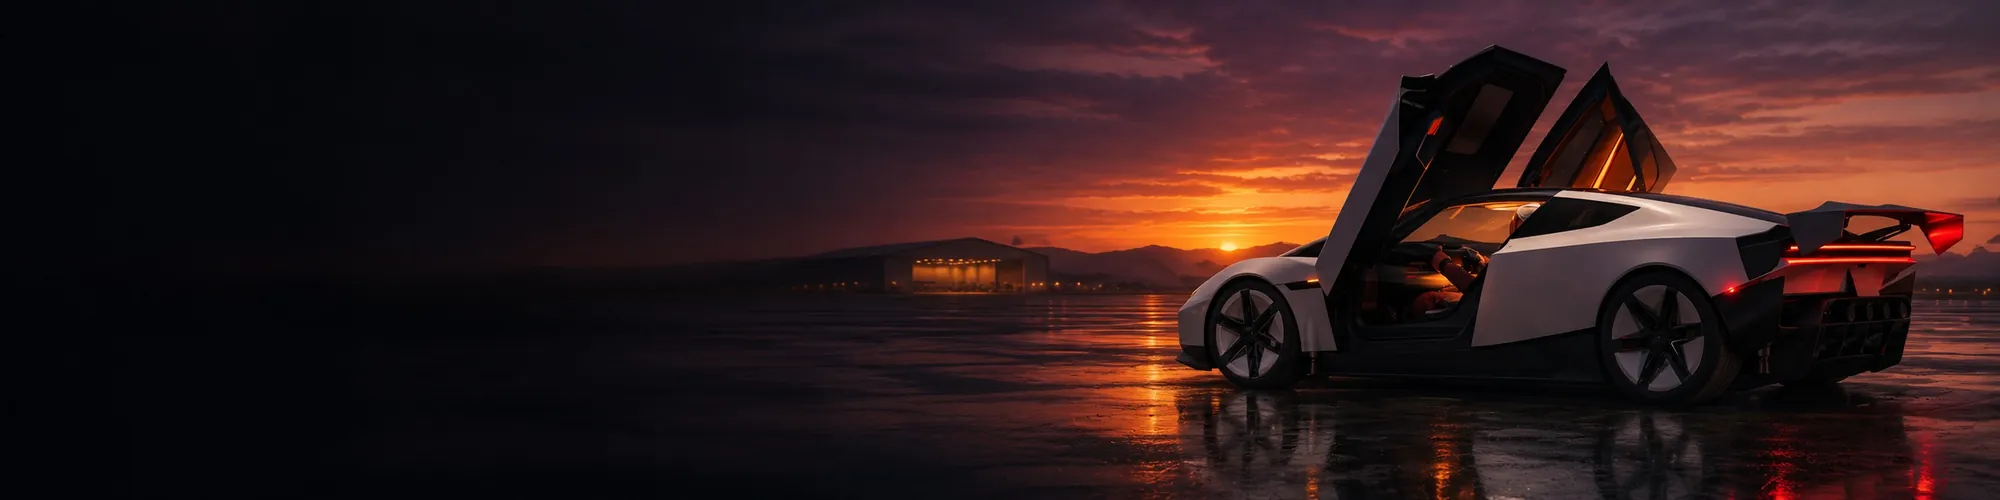
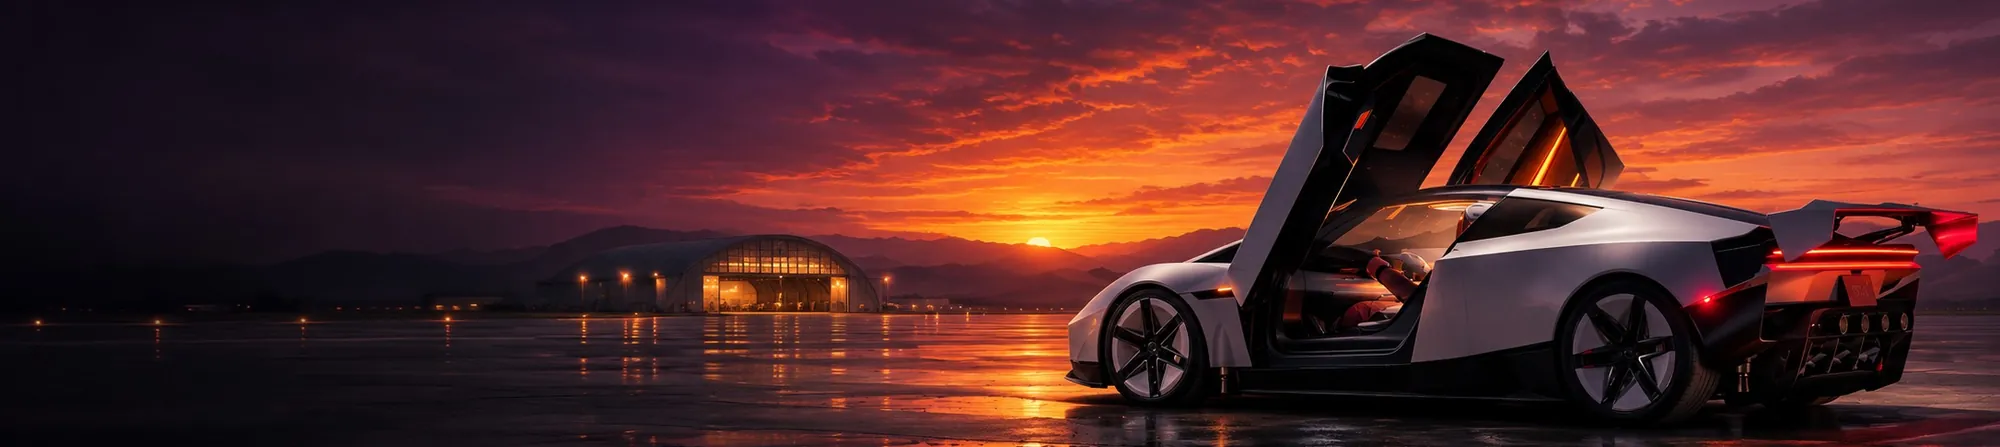
S

diff --git a/assets/fp-home.css b/assets/fp-home.css
@@ -105,13 +105,14 @@ body.home img{display:block;max-width:100%}
    its top fading into the banner, so the cars are never trimmed or pushed under the text. The VS badge and its line
    sit in the gap between the cars: --s = the gap's x in the image (0–1), --r = image ratio. */
 .cmp-media{position:absolute;inset:0;container-type:size;--iw:max(100cqw, var(--r,2.4) * 100cqh);--ih:max(100cqh, 100cqw / var(--r,2.4))}
-.cmp-media img{position:absolute;right:0;bottom:0;width:100%;height:100%;object-fit:cover;object-position:100% 100%}
+.cmp-media img{position:absolute;right:0;bottom:0;width:100%;height:100%;object-fit:cover;object-position:100% 50%}
 .cmp-media::before{content:"";position:absolute;inset:0;z-index:1;background:linear-gradient(90deg,var(--petrol) 0,rgba(17,37,46,.9) 16%,rgba(17,37,46,.5) 30%,rgba(17,37,46,0) 42%)}
-.cmp-line{position:absolute;z-index:1;left:calc(100cqw - (1 - var(--s,.5)) * var(--iw) - 1px);top:calc(100cqh - var(--ih) * .78);height:calc(var(--ih) * .56);width:2px;background:linear-gradient(180deg,transparent,var(--ember-strong) 30%,var(--ember-strong) 70%,transparent)}
-.cmp-vs{position:absolute;z-index:2;left:calc(100cqw - (1 - var(--s,.5)) * var(--iw));top:calc(100cqh - var(--ih) * .5);transform:translate(-50%,-50%);width:46px;height:46px;display:flex;align-items:center;justify-content:center;border-radius:50%;background:var(--petrol);border:2px solid var(--ember-strong);font:700 italic 16px/1 var(--f-head);color:var(--ivory)}
+.cmp-line{position:absolute;z-index:1;left:calc(100cqw - (1 - var(--s,.5)) * var(--iw) - 1px);top:calc(50cqh - var(--ih) * .28);height:calc(var(--ih) * .56);width:2px;background:linear-gradient(180deg,transparent,var(--ember-strong) 30%,var(--ember-strong) 70%,transparent)}
+.cmp-vs{position:absolute;z-index:2;left:calc(100cqw - (1 - var(--s,.5)) * var(--iw));top:50cqh;transform:translate(-50%,-50%);width:46px;height:46px;display:flex;align-items:center;justify-content:center;border-radius:50%;background:var(--petrol);border:2px solid var(--ember-strong);font:700 italic 16px/1 var(--f-head);color:var(--ivory)}
 @container (max-aspect-ratio: 2.4/1){
   .cmp-media img{height:auto;-webkit-mask-image:linear-gradient(180deg,transparent 0,#000 16%);mask-image:linear-gradient(180deg,transparent 0,#000 16%)}
-  .cmp-line,.cmp-vs{--iw:100cqw;--ih:calc(100cqw / var(--r,2.4))}
+  .cmp-line{--iw:100cqw;--ih:calc(100cqw / var(--r,2.4));top:calc(100cqh - var(--ih) * .78)}
+  .cmp-vs{--iw:100cqw;--ih:calc(100cqw / var(--r,2.4));top:calc(100cqh - var(--ih) * .5)}
 }
 .cmp-text{position:relative;z-index:2;display:flex;flex-direction:column;align-items:flex-start;justify-content:center;gap:10px;height:100%;max-width:36%;padding:20px 0 26px 30px}
 .cmp-text .fp-label{display:inline-block;padding:4px 7px;background:var(--ember-strong);color:#fff;border-radius:2px}
@@ -122,6 +123,9 @@ body.home img{display:block;max-width:100%}
 .cmp-credit{position:absolute;z-index:2;right:10px;bottom:8px;margin:0;padding:3px 6px;border-radius:2px;background:rgba(17,37,46,.62);font:400 10px/1 var(--f-mono);color:rgba(242,239,232,.85)}
 .ln .fp-head{margin-bottom:0}
 .ln-list{list-style:none;margin:0;padding:0}
+/* Desktop: three stories beside the comparison banner keep both columns ~300px (four made the banner ~400px tall).
+   The fourth shows again when the news list sits under the banner (≤1199px, two columns). */
+@media (min-width:1200px){.ln-list > li:nth-child(n+4){display:none}}
 .ln-item{display:grid;grid-template-columns:148px 1fr;gap:14px;align-items:center;padding:9px 0;border-bottom:1px solid var(--rule);color:var(--ink);text-decoration:none}
 .ln-media{display:block;aspect-ratio:2/1;border-radius:4px;overflow:hidden;background:var(--petrol)}
 .ln-media img{width:100%;height:100%;object-fit:cover}
@@ -297,9 +301,12 @@ body.home main{padding-bottom:0}
 .nu-card--bleed .nu-media::after,.cc-banner--bleed .cc-media::after{content:"";position:absolute;inset:0;pointer-events:none;background:linear-gradient(90deg,var(--petrol) 0,rgba(17,37,46,.9) 16%,rgba(17,37,46,.5) 32%,rgba(17,37,46,0) 46%)}
 .nu-card--bleed .nu-text{grid-area:1 / 1;position:relative;z-index:1;max-width:41%;padding:18px 0 18px 22px}
 .nu-credit{position:absolute;z-index:1;right:10px;bottom:8px;padding:3px 6px;border-radius:2px;background:rgba(17,37,46,.62);font:400 10px/1 var(--f-mono);color:rgba(242,239,232,.85)}
-.cc-banner.cc-banner--bleed{height:auto;display:grid;grid-template:1fr / minmax(0,1fr);align-items:center}
-.cc-banner--bleed .cc-media{grid-area:1 / 1;position:relative;inset:auto;width:100%;aspect-ratio:var(--r,4);-webkit-mask-image:none;mask-image:none}
-.cc-banner--bleed .cc-text{grid-area:1 / 1;height:auto;max-width:44%}
+/* Car Culture keeps the slim 240px band: the 4:1 image is sized to the band's height and anchored right (never cropped
+   on desktop), its left edge fading into the petrol band behind the text. */
+.cc-banner.cc-banner--bleed{height:240px}
+.cc-banner--bleed .cc-media{left:auto;width:auto;max-width:100%;height:100%;aspect-ratio:var(--r,4);-webkit-mask-image:linear-gradient(90deg,transparent 0,#000 22%);mask-image:linear-gradient(90deg,transparent 0,#000 22%)}
+.cc-banner--bleed .cc-media img{object-position:100% 50%}
+.cc-banner--bleed .cc-text{max-width:min(46%,480px);gap:9px}
 .cc-banner--bleed .cc-credit{padding:3px 6px;border-radius:2px;background:rgba(17,37,46,.62)}
 .cc-latest{font:600 13px/1.35 var(--f-body);color:var(--on-dark-2);text-decoration:none}
 .cc-latest:hover{color:var(--ivory);text-decoration:underline;text-underline-offset:3px}
@@ -311,11 +318,20 @@ body.home main{padding-bottom:0}
   .nu-card--bleed .nu-status{font-size:12.5px}
 }
 @media (max-width:767px){
-  .nu-card.nu-card--bleed,.cc-banner.cc-banner--bleed{display:flex;flex-direction:column;align-items:stretch}
+  .nu-card.nu-card--bleed{display:flex;flex-direction:column;align-items:stretch}
   .nu-card--bleed .nu-media{aspect-ratio:16/9}
-  .cc-banner--bleed .cc-media{aspect-ratio:2/1}
   .nu-card--bleed .nu-media img,.cc-banner--bleed .cc-media img{object-position:100% 50%}
-  .nu-card--bleed .nu-media::after,.cc-banner--bleed .cc-media::after{background:linear-gradient(0deg,var(--petrol) 0,rgba(17,37,46,0) 24%)}
-  .nu-card--bleed .nu-text,.cc-banner--bleed .cc-text{max-width:none;padding:4px 16px 16px}
+  .nu-card--bleed .nu-media::after{background:linear-gradient(0deg,var(--petrol) 0,rgba(17,37,46,0) 24%)}
+  .nu-card--bleed .nu-text{max-width:none;padding:4px 16px 16px}
   .nu-credit{top:8px;bottom:auto}
+}
+@media (min-width:1024px) and (max-width:1279px){.cc-banner--bleed .cc-text{max-width:38%}}
+/* ≤1023: Car Culture stacks — image on top (2.4:1, right-anchored: the whole car stays in), text below */
+@media (max-width:1023px){
+  .cc-banner.cc-banner--bleed{height:auto}
+  .cc-banner--bleed .cc-media{position:relative;display:block;width:100%;max-width:none;height:auto;aspect-ratio:2.4/1;-webkit-mask-image:none;mask-image:none}
+  .cc-banner--bleed .cc-media img{object-position:92% 50%}
+  .cc-banner--bleed .cc-media::after{background:linear-gradient(0deg,var(--petrol) 0,rgba(17,37,46,0) 26%)}
+  .cc-banner--bleed .cc-text{max-width:none;padding:4px 18px 20px}
+  .cc-banner--bleed .cc-credit{top:8px;bottom:auto}
 }

diff --git a/index.html b/index.html
@@ -57,7 +57,7 @@
   <link rel="preload" href="/assets/fonts/inter-latin-400-normal.woff2" as="font" type="font/woff2" crossorigin>
   <link rel="preload" href="/assets/fonts/familjen-grotesk-latin-700-italic.woff2" as="font" type="font/woff2" crossorigin>
   <link rel="stylesheet" href="/assets/fp.css?v=20261126c">
-  <link rel="stylesheet" href="/assets/fp-home.css?v=20261126c">
+  <link rel="stylesheet" href="/assets/fp-home.css?v=20261126g">
   <!-- /FP:HEAD -->
 </head>
 <body class="home">
@@ -291,13 +291,12 @@
 
   <div class="fp-container fp-row fp-row--last">
 <!-- CULTURE:START -->
-      <section class="cc-banner cc-banner--bleed" aria-labelledby="cultureTitle" style="--r:4.000">
-        <span class="cc-media" aria-hidden="true"><img src="/images/home/banner-news-tesla-roadster-reveal-2026.webp" alt="" width="2000" height="500" style="object-position:100% 50%" loading="lazy" decoding="async"></span>
+      <section class="cc-banner cc-banner--bleed" aria-labelledby="cultureTitle" style="--r:4.474">
+        <span class="cc-media" aria-hidden="true"><img src="/images/home/banner-news-tesla-roadster-reveal-2026.webp" alt="" width="2000" height="447" style="object-position:100% 50%" loading="lazy" decoding="async"></span>
         <div class="cc-text">
           <h2 class="fp-italic" id="cultureTitle">Car Culture</h2>
           <p>Performance, design, innovation and the machines that define automotive history.</p>
           <a class="fp-btn" href="/car-culture.html">Explore Stories<svg viewBox="0 0 16 16" aria-hidden="true"><path d="M6 3l5 5-5 5" fill="none" stroke="currentColor" stroke-width="1.8" stroke-linecap="round" stroke-linejoin="round"/></svg></a>
-          <a class="cc-latest" href="/news-tesla-roadster-reveal-2026.html">Latest: Tesla Roadster Finally Takes Flight in Musk’s Demo — Production Is Still Planned for 2028</a>
         </div>
         <p class="cc-credit">AI illustration: FlamingPiston</p>
       </section>
@@ -323,6 +322,6 @@
   </footer>
   <button class="back-to-top" id="backToTop" type="button" aria-label="Back to top"><svg viewBox="0 0 24 24" fill="none" stroke="currentColor" stroke-width="2"><path d="M12 19V5M5 12l7-7 7 7"/></svg></button>
   <script src="/assets/fp.js?v=20261126c" defer></script>
-  <script src="/assets/fp-home.js?v=20261126c" defer></script>
+  <script src="/assets/fp-home.js?v=20261126g" defer></script>
 </body>
 </html>

diff --git a/scripts/build-lists.js b/scripts/build-lists.js
@@ -423,7 +423,7 @@ between('index.html', 'GUIDES', guides.map((a) => `        <a class="gd-card" hr
         </a>`).join('\n'));
 
 // Car Culture banner (section entry point, links to /car-culture.html). Full-bleed image from the newest culture
-// story that has a 'culture' banner, with a "Latest" link to it; until one exists, the older image in carCulture.image.
+// story that has a 'culture' banner; until one exists, the older image in carCulture.image.
 const cc = HOME.carCulture || {};
 if (cultureA) {
   const b = BANNERS[cultureA.url], c = crop(`banner#${cultureA.url}`);
@@ -433,7 +433,6 @@ if (cultureA) {
           <h2 class="fp-italic" id="cultureTitle">${esc(cc.title || 'Car Culture')}</h2>
           <p>${esc(cc.dek || '')}</p>
           <a class="fp-btn" href="${cc.url || '/car-culture.html'}">Explore Stories${ICON_ARROW}</a>
-          <a class="cc-latest" href="${href(cultureA)}">Latest: ${esc(b.headline || cultureA.title)}</a>
         </div>
         ${b.credit ? `<p class="cc-credit">${esc(b.credit)}</p>` : ''}
       </section>`);

diff --git a/scripts/apply-shell.js b/scripts/apply-shell.js
@@ -20,7 +20,7 @@ const path = require('path');
 
 const ROOT = path.resolve(__dirname, '..');
 const V = '20261126c';                       // fp.css / fp.js — bump after editing them
-const VH = '20261126c';                      // homepage-only assets (fp-home.css / fp-home.js)
+const VH = '20261126g';                      // homepage-only assets (fp-home.css / fp-home.js)
 const SKIP_DIRS = new Set(['site', 'scripts', 'images', 'js', 'assets', '.git', 'node_modules', 'design-preview']);
 const args = process.argv.slice(2);
 const DRY = args.includes('--dry-run');

diff --git a/scripts/make-home-images.py b/scripts/make-home-images.py
@@ -29,7 +29,7 @@ Homepage slot ratios (keep in step with assets/fp-home.css):
   card  1.78 (16:9)   New & Upcoming cards
   car   1.78 (16:9)   Featured Cars (2.4:1 until Nov 2026: too shallow for SUVs)
   feature            homepage banners ("banners" in homepage.json): used whole, checked against
-                     their kind (hero/compare 2.4:1, launch/upcoming 3:1, culture 4:1)
+                     their kind (hero/compare 2.4:1, launch/upcoming 3:1, culture ≈4.4:1 after a vertical 'box' crop)
   banner              Car Culture banner ("box" crop, cover)
 
 Usage (from the site root, needs Pillow:  pip install pillow):
@@ -44,7 +44,7 @@ ROOT = os.path.abspath(os.path.join(os.path.dirname(__file__), '..'))
 OUT = os.path.join(ROOT, 'images', 'home')
 WIDTH = {'hero': 1600, 'thumb': 560, 'car': 760, 'vs': 1600, 'card': 900, 'banner': 1400, 'feature': 1600}
 # Homepage banners (data/homepage.json "banners"): expected ratio, the furthest left the car may start, output width
-BANNER = {'hero': (2.4, 0.38, 1600), 'compare': (2.4, 0.33, 1600), 'launch': (3.0, 0.40, 1400), 'upcoming': (3.0, 0.40, 1400), 'culture': (4.0, 0.45, 2000)}
+BANNER = {'hero': (2.4, 0.38, 1600), 'compare': (2.4, 0.33, 1600), 'launch': (3.0, 0.40, 1400), 'upcoming': (3.0, 0.40, 1400), 'culture': (4.4, 0.45, 2000)}
 RATIOS = {'hero': [1.6], 'thumb': [1.6, 2.0], 'card': [16 / 9], 'car': [16 / 9]}
 SUFFIX = {1.6: '16x10', 2.0: '2x1', 16 / 9: '16x9', 2.4: '12x5'}
 PAD_X, PAD_Y = 0.07, 0.09     # breathing room around the car, as a share of the frame

diff --git a/docs/HOMEPAGE-BANNERS.md b/docs/HOMEPAGE-BANNERS.md
@@ -8,7 +8,7 @@ Five homepage spots use a **banner**: an image made for the layout, with the car
 | Comparison banner | Comparison | `compare` | 2400 × 1000 (2.4:1) | both cars head-on, right ~62% | left 35% dark |
 | New & Upcoming: launch card | news story marked `launch` | `launch` | 2400 × 800 (3:1) | right 55%, ~80% of height | left 45% dark |
 | New & Upcoming: upcoming card | news story marked `upcoming` | `upcoming` | 2400 × 800 (3:1) | right 55%, ~80% of height | left 45% dark |
-| Car Culture banner | story listed in `data/car-culture.json` | `culture` | 3000 × 750 (4:1) | right 45%, ~70% of height | left 55% dark |
+| Car Culture banner | story listed in `data/car-culture.json` | `culture` | 2400 × 800 (3:1), then a vertical `box` crop to ≈4.4:1 | right 45%, between ~17% and ~76% of height | left 33% dark, warm scenery in the middle |
 
 No text, logos or watermark in any banner. The page adds the headline, labels, "VS" badge and credit.
 
@@ -95,15 +95,18 @@ Do NOT add any text, logos, watermark, labels, borders or graphics anywhere in t
 
 Same as **New launch**, with this setting: *"open highway at sunset, warm low sun behind the vehicle, distant city skyline, dark asphalt; a slightly mysterious, teaser mood."* Keep the car facing left in the right 55%.
 
-### Car Culture (`culture`, 3000 × 750)
+### Car Culture (`culture`, 2400 × 800, cropped to ≈4.4:1)
+
+The homepage band is slim (240px), so the build shows a horizontal strip of this image. Add `"box": [0, 0.12, 1, 0.79]` (adjust so the doors/roof and tyres stay inside) to the entry.
 
 ```
 Using the attached image as the reference for the car, create a cinematic ultra-wide banner image.
-Size: 3000 × 750 px (4:1 landscape).
+Size: 2400 × 800 px (3:1 landscape). Keep the whole car between 15% and 78% of the image height (sky above, tarmac below).
 Vehicle: keep the car's design exactly — body shape, colour, wheels, lights (and doors as in the reference).
-Placement: RIGHT 45% of the frame, side three-quarter view, about 70% of the image height, fully inside the frame with clear space above it, wheels fully visible, about 4% from the right edge. Nothing cut off.
+Placement: RIGHT 45% of the frame, side three-quarter view, fully inside the frame, wheels fully visible, about 3% from the right edge. Nothing cut off.
+Middle of the frame (35%–60% of the width): continue the scene towards the text — sunset glow, a distant lit building or landmark, long reflections on the wet ground — soft detail and warm light, not empty darkness.
 Setting: DRAMATIC SETTING (e.g. empty airfield runway / black studio with light tubes / mountain road) at sunset or night, dramatic sky, wet ground with soft reflections.
-Left side: the LEFT 55% must be dark and calm — dark sky and ground with very little detail, darkest at the left edge, for the "Car Culture" title.
+Left side: only the LEFT 33% is dark and calm, darkest at the left edge, for the "Car Culture" title.
 Style: photorealistic, sharp focus on the car, cinematic contrast.
 Do NOT add any text, logos, watermark, labels, borders or graphics anywhere in the image.
 ```
